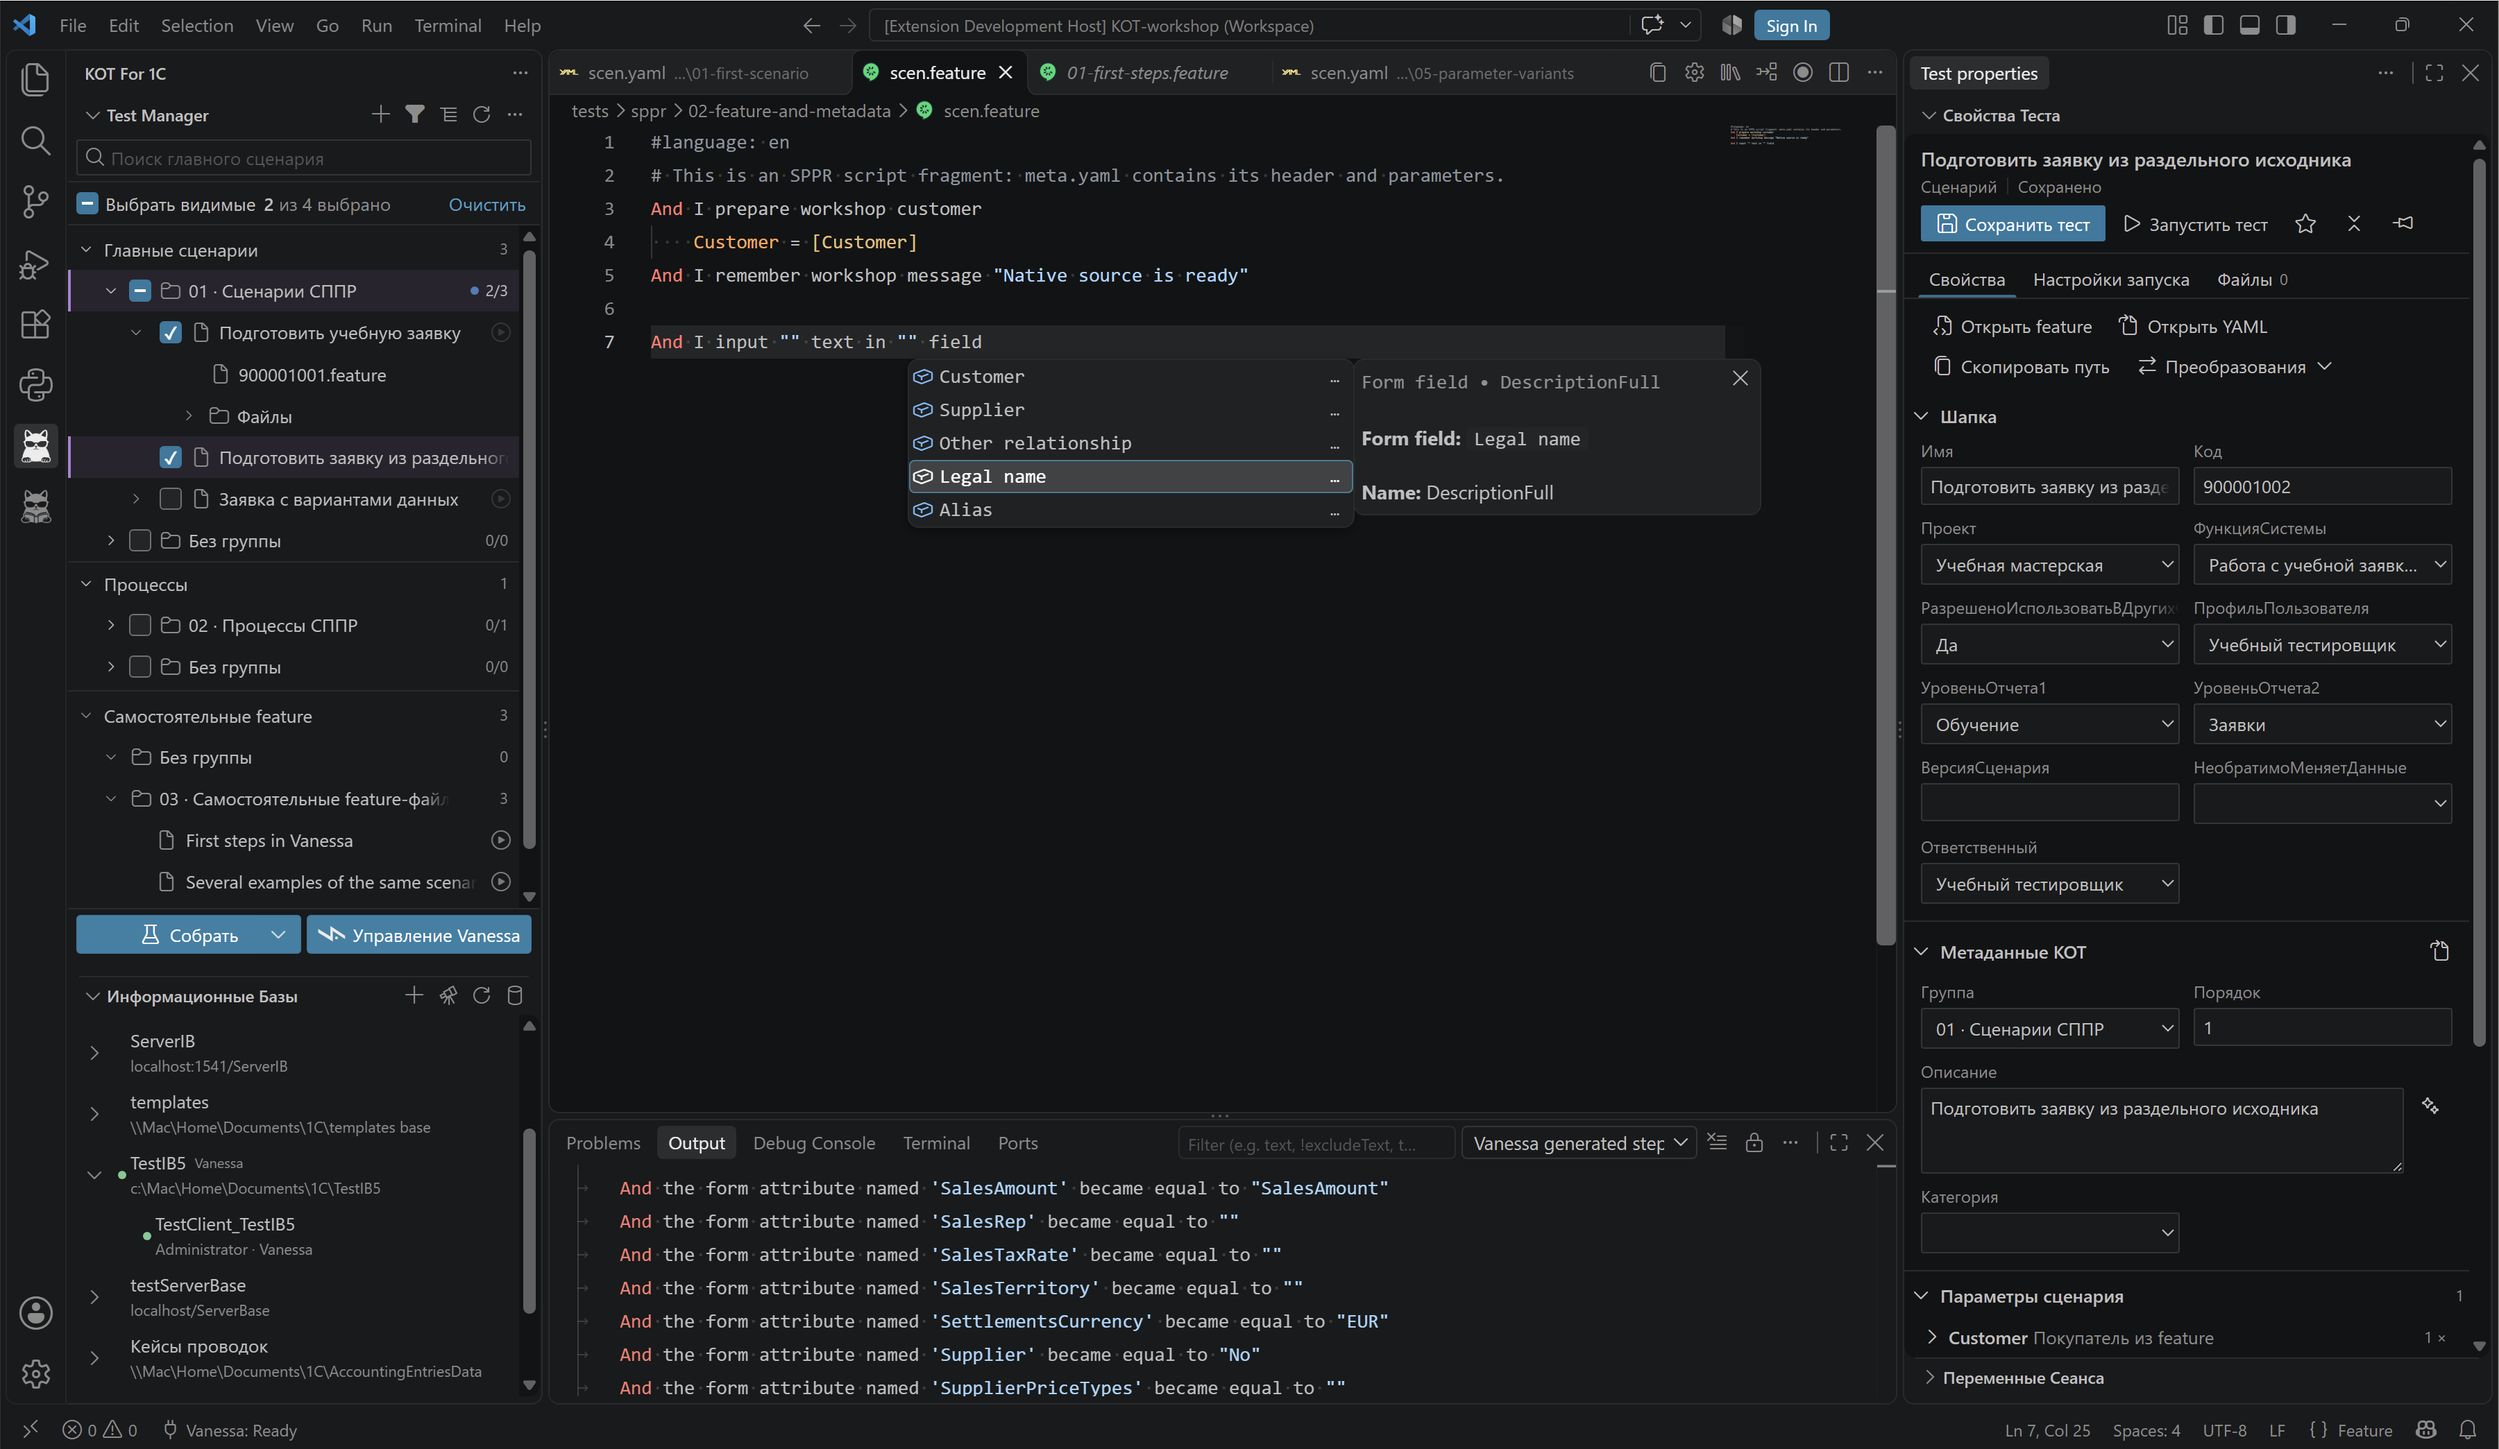
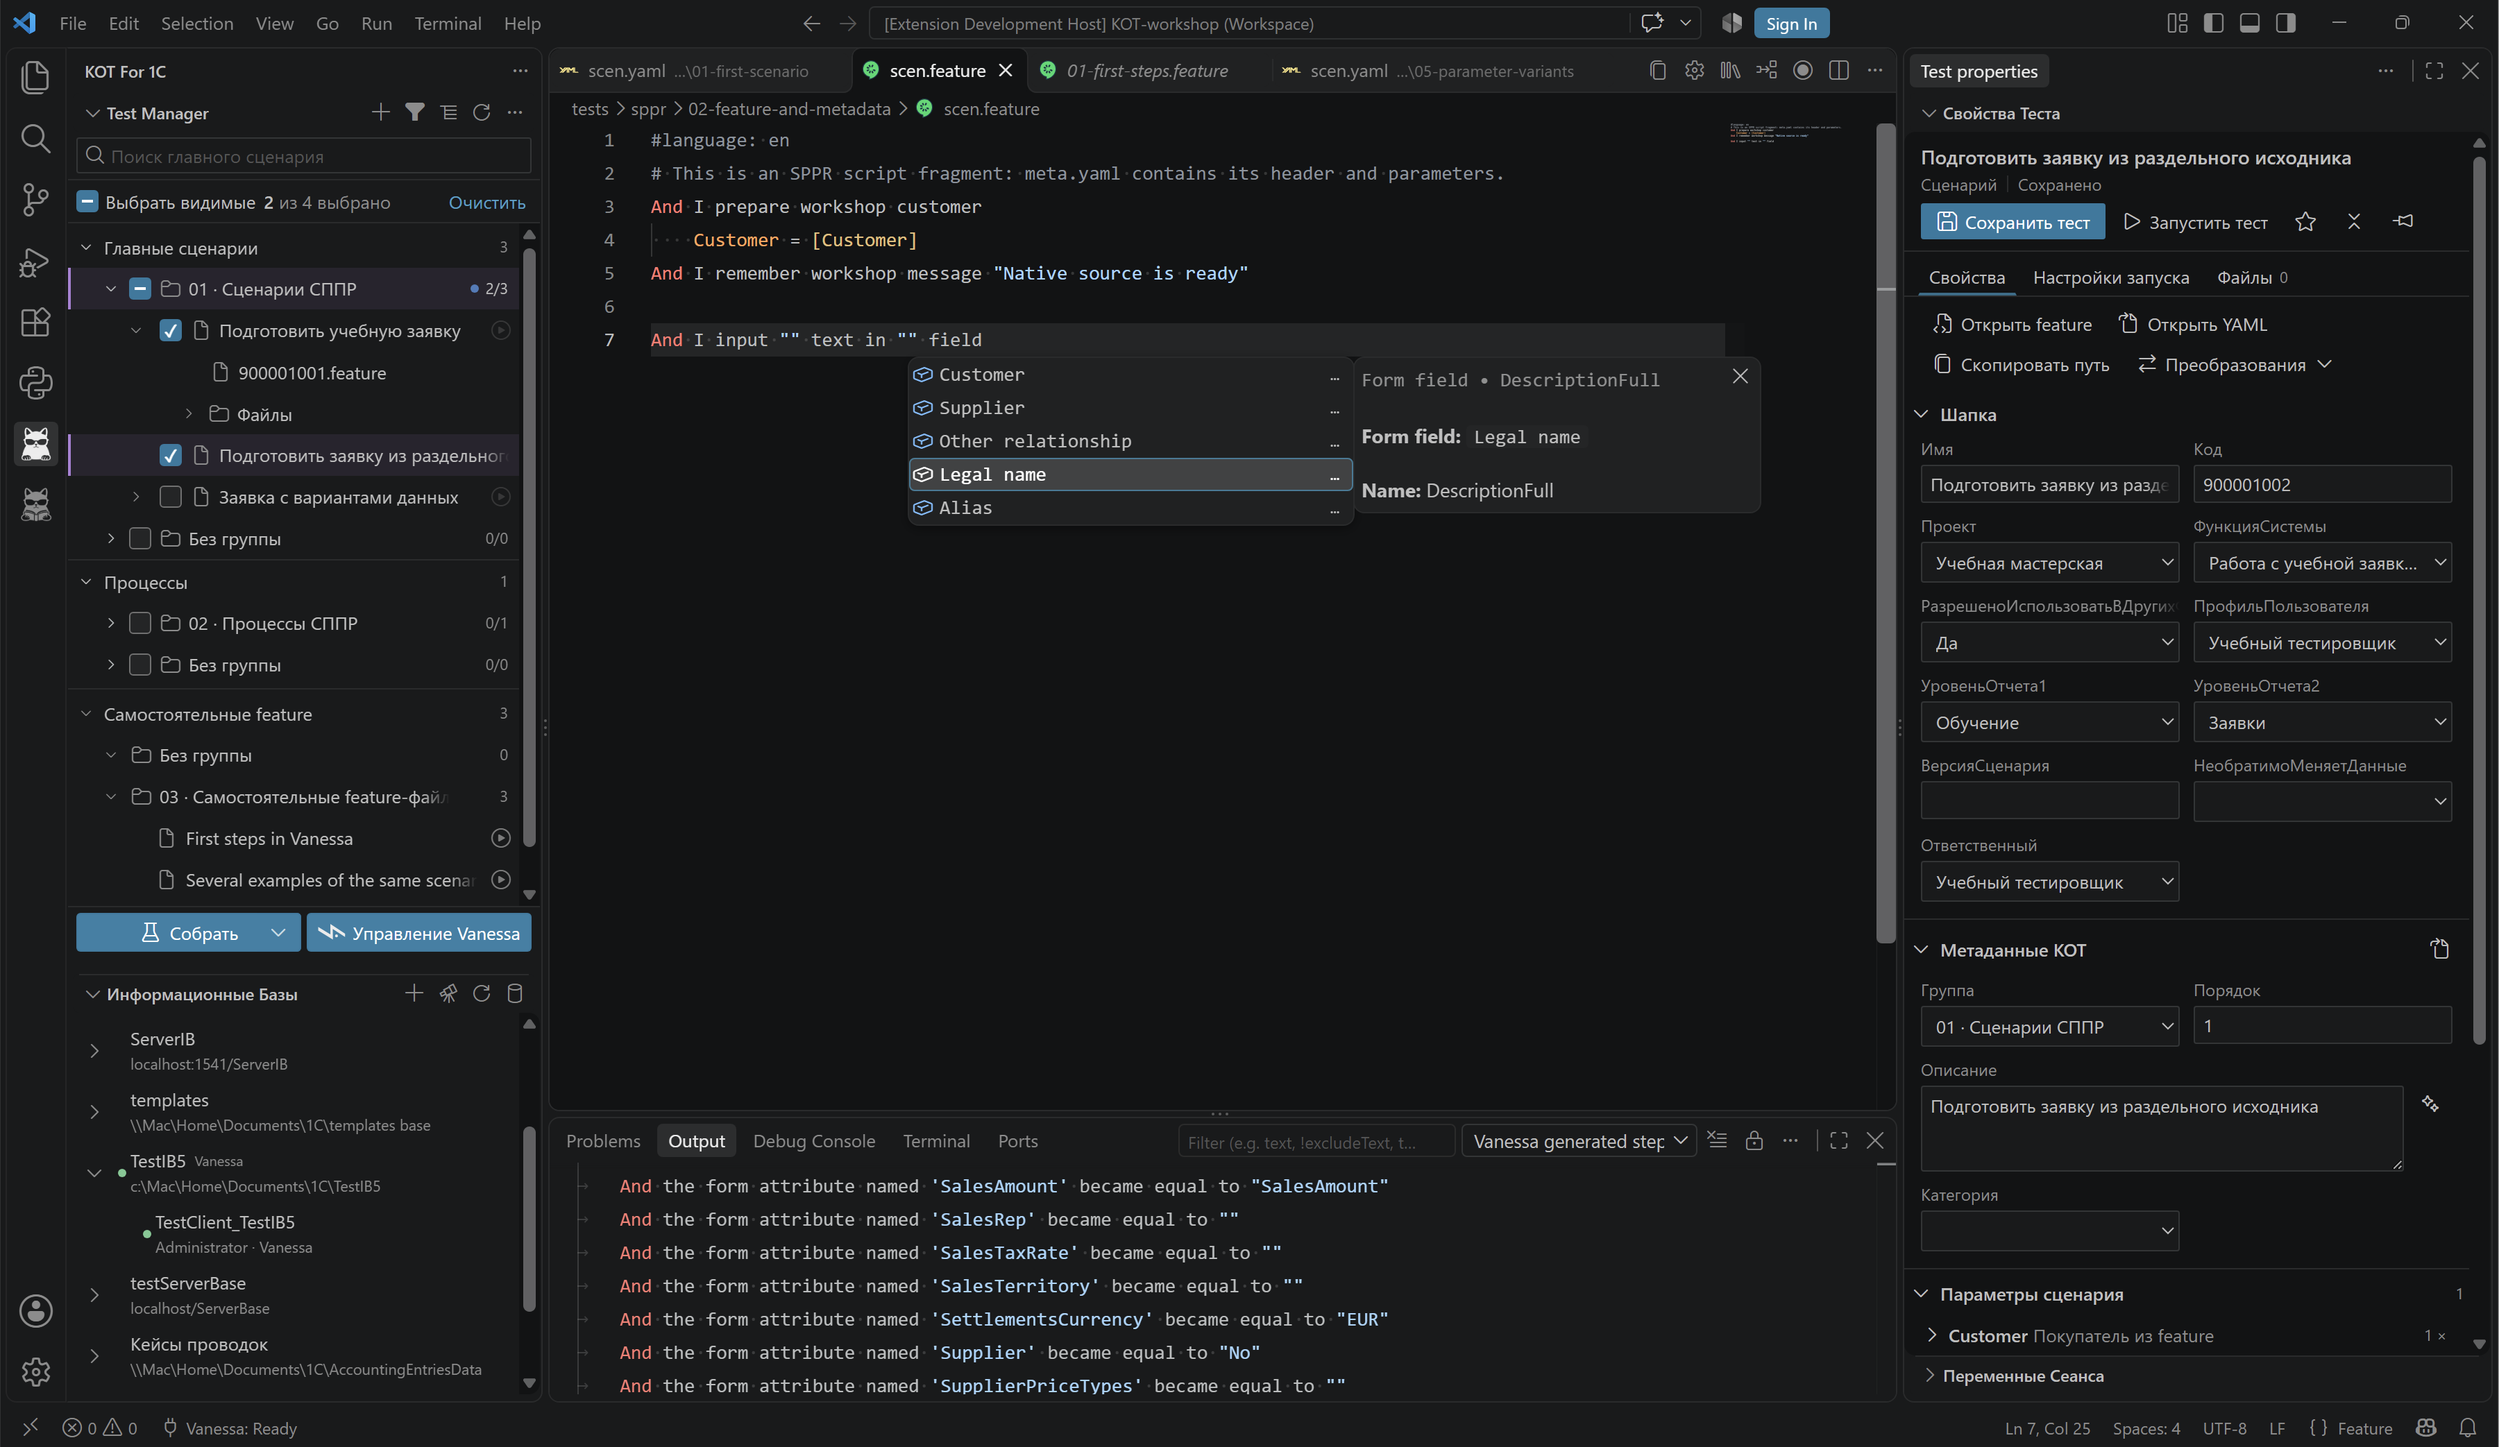
fix: change autoMigrateScenarioYamlOnSave to false

diff --git a/src/extension.ts b/src/extension.ts
@@ -3410,7 +3410,7 @@ export async function activate(context: vscode.ExtensionContext) {
     context.subscriptions.push(
         vscode.workspace.onDidSaveTextDocument(async (document) => {
             if (/(?:^|[\\/])scen\.yaml$/u.test(document.fileName) && !document.isDirty
-                && vscode.workspace.getConfiguration('kotTestToolkit', document.uri).get<boolean>('editor.autoMigrateScenarioYamlOnSave', true)) {
+                && vscode.workspace.getConfiguration('kotTestToolkit', document.uri).get<boolean>('editor.autoMigrateScenarioYamlOnSave', false)) {
                 const { shouldAutoMigrateScenario } = await import('./spprScenarioFormat.js');
                 if (shouldAutoMigrateScenario(document.fileName, document.getText(), true)) {
                     const result = await (await import('./spprScenarioFiles.js')).handleConvertScenarioFormat(document.uri, 'native', true);

diff --git a/docs/ux/first-run/settings-data.js b/docs/ux/first-run/settings-data.js
@@ -436,7 +436,7 @@ window.KOT_SETTINGS_MODEL = {
       "section": "project",
       "advanced": true,
       "type": "boolean",
-      "default": true,
+      "default": false,
       "description": "При сохранении преобразовывать старый scen.yaml в scen.feature + meta.yaml. По умолчанию выключено. Несохранённые соседние файлы препятствуют конвертации.",
       "preferredScope": "folder",
       "hint": "При сохранении преобразовывать старый scen.yaml в scen.feature + meta.yaml."

diff --git a/docs/technical/settings-reference.md b/docs/technical/settings-reference.md
@@ -613,14 +613,14 @@ true
 
 `kotTestToolkit.editor.autoMigrateScenarioYamlOnSave`
 
-При сохранении преобразовывать старый scen.yaml в scen.feature + meta.yaml. По умолчанию включено. Несохранённые соседние файлы препятствуют конвертации.
+При сохранении преобразовывать старый scen.yaml в scen.feature + meta.yaml. По умолчанию выключено. Несохранённые соседние файлы препятствуют конвертации.
 
 Тип: `"boolean"`. Область: `resource`.
 
 Значение по умолчанию:
 
 ```json
-true
+false
 ```
 
 ## Компиляция СППР
